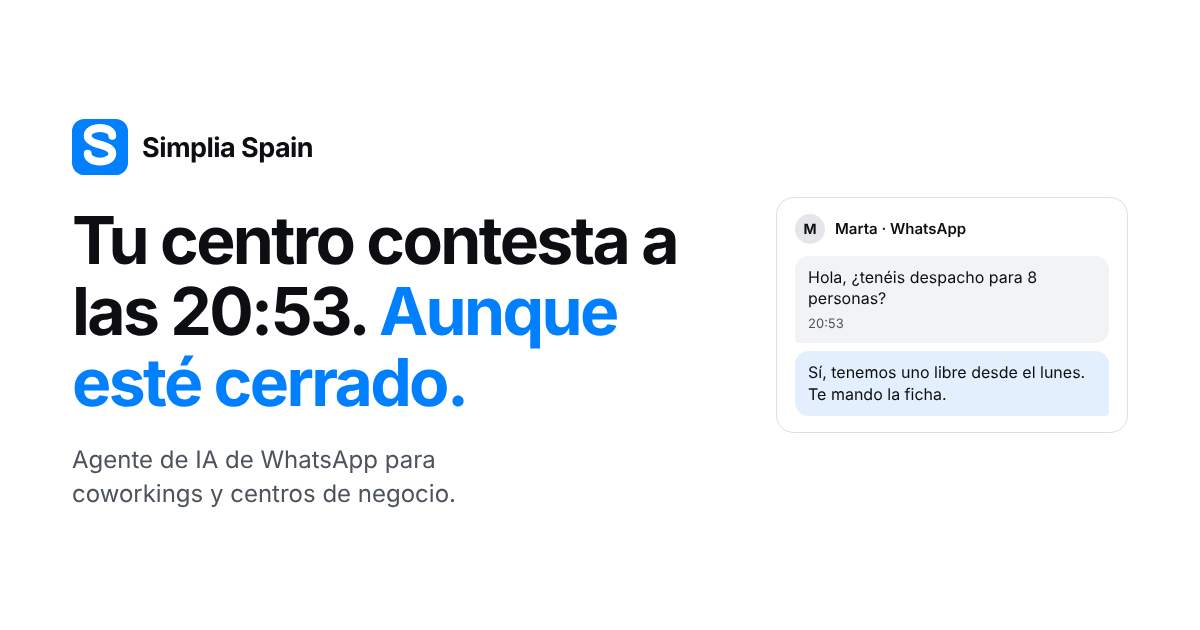
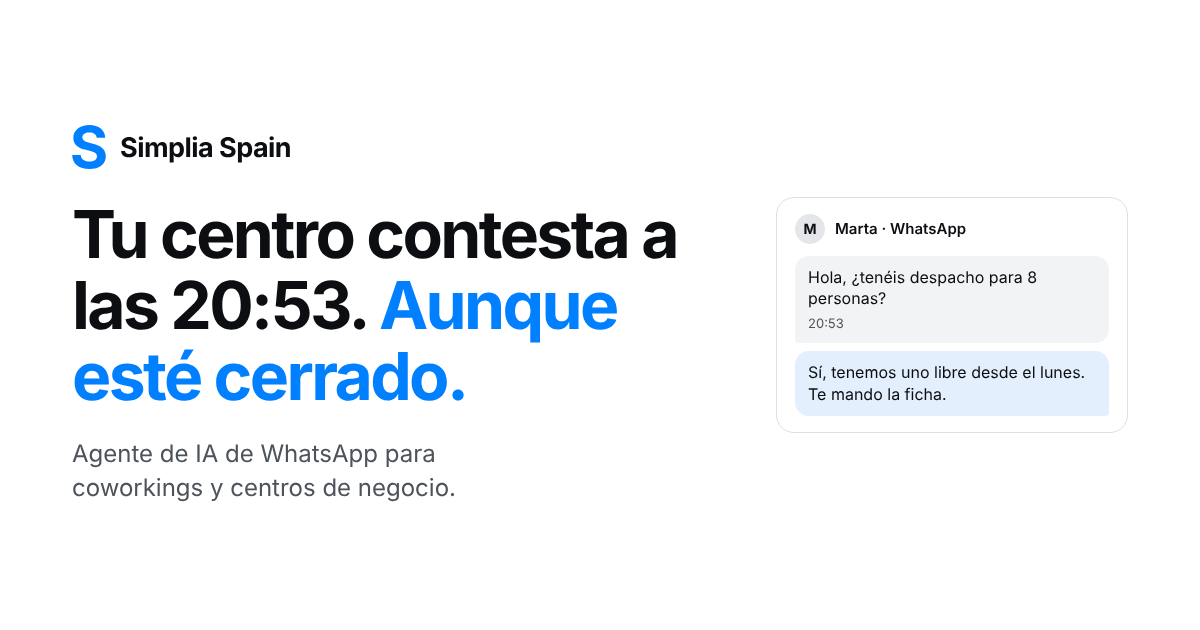
Poner la marca de verdad en la tarjeta que se comparte
Al pegar un enlace de la web en WhatsApp seguía saliendo la marca
antigua: un azulejo azul con una S dibujada a mano con un trazo
redondeado. El icono de pestaña se cambió hace dos entregas por la S real
-la de «Spain», sacada de Inter Bold, el peso en que está escrito el
logotipo- y la tarjeta se quedó atrás, porque es una imagen y no se
actualiza sola.

Ahora lleva esa misma S, recortada a su propia mancha de tinta para que
case de tamaño con el logotipo que tiene al lado. Va suelta y sin
azulejo: la tarjeta ya es blanca, y un azulejo blanco sobre blanco no se
vería.

La tarjeta pasa a vivir en el repositorio, en scripts/og/, con su README.
Estaba solo en el contenedor donde se hizo, que es exactamente por lo que
la marca antigua sobrevivió a su propio cambio: nadie podía regenerarla
sin volver a escribirla.

Siguen siendo 1200 x 630, que es lo que dicen og:image:width y height en
index.html.

Claude-Session: https://claude.ai/code/session_018wBeAekrWct3bfUgnCTmgZ

Changed region(s): [[0.0617, 0.3317, 0.555, 0.6635], [0.0617, 0.6937, 0.37, 0.8143], [0.0617, 0.181, 0.2775, 0.3016]]

diff --git a/scripts/og/tarjeta.html b/scripts/og/tarjeta.html
@@ -1,0 +1,97 @@
+<!doctype html>
+<html lang="es">
+<head>
+<meta charset="utf-8">
+<style>
+  :root {
+    --ink: #0C0E12;
+    --brand: #0080FF;
+    --muted: #4D535B;
+    --line: #DFE0DC;
+    --soft: #F0F1EE;
+  }
+  * { margin: 0; padding: 0; box-sizing: border-box; }
+  html, body { width: 1200px; height: 630px; }
+  body {
+    font-family: 'Inter', system-ui, sans-serif;
+    background: #fff;
+    color: var(--ink);
+    display: flex;
+    align-items: center;
+    gap: 56px;
+    padding: 0 72px;
+    -webkit-font-smoothing: antialiased;
+  }
+  .left { flex: 1 1 auto; min-width: 0; }
+  .mark { display: flex; align-items: center; gap: 14px; margin-bottom: 30px; }
+  .mark svg { width: 34px; height: 44px; display: block; }
+  .mark span { font-size: 27px; font-weight: 700; letter-spacing: -0.02em; }
+
+  h1 {
+    font-size: 66px;
+    font-weight: 700;
+    line-height: 1.07;
+    letter-spacing: -0.04em;
+    max-width: 14ch;
+    margin-bottom: 26px;
+  }
+  h1 em { font-style: normal; color: var(--brand); }
+
+  p { font-size: 24px; line-height: 1.4; color: var(--muted); max-width: 26ch; }
+
+  /* The message that is the whole argument, drawn the way the site draws it. */
+  .bubble {
+    flex: none;
+    width: 352px;
+    border: 1px solid var(--line);
+    border-radius: 18px;
+    padding: 16px 18px;
+    background: #fff;
+  }
+  .who { display: flex; align-items: center; gap: 10px; margin-bottom: 12px; }
+  .avatar {
+    width: 30px; height: 30px; border-radius: 50%;
+    background: #E4E6E9; color: var(--ink);
+    font-size: 14px; font-weight: 700;
+    display: flex; align-items: center; justify-content: center;
+  }
+  .who b { font-size: 15px; font-weight: 600; }
+  .msg {
+    background: #F2F3F5;
+    border-radius: 14px 14px 14px 4px;
+    padding: 11px 13px;
+    font-size: 16px;
+    line-height: 1.35;
+  }
+  .time { display: block; margin-top: 5px; font-size: 13px; color: var(--muted); }
+  .reply {
+    margin-top: 8px;
+    background: #E3EFFC;
+    border-radius: 14px 14px 4px 14px;
+    padding: 11px 13px;
+    font-size: 16px;
+    line-height: 1.35;
+  }
+</style>
+</head>
+<body>
+  <div class="left">
+  <div class="mark">
+    <svg xmlns="http://www.w3.org/2000/svg" viewBox="27.8 21 44.4 58" aria-hidden="true">
+      <path d="M50.39751958224544 79.0C64.10248041775458 79.0 72.16644908616188 72.37467362924282 72.16644908616188 62.11488250652741C72.16644908616188 52.65013054830287 64.82180156657964 47.8041775456919 55.31919060052219 45.60835509138381L50.208224543080945 44.35900783289817C45.437989556135776 43.22323759791123 41.197780678851174 41.44386422976501 41.197780678851174 37.24151436031332C41.197780678851174 33.4556135770235 44.52937336814622 30.72976501305483 50.43537859007833 30.72976501305483C56.22780678851175 30.72976501305483 59.824412532637076 33.34203655352481 60.24086161879895 37.847258485639685H71.40926892950392C71.21997389033942 27.928198433420363 63.04242819843342 21.0 50.54895561357702 21.0C38.282637075718014 21.0 29.34791122715405 27.81462140992167 29.34791122715405 37.99869451697128C29.34791122715405 46.21409921671018 35.06462140992167 51.02219321148824 44.60509138381201 53.331592689295036L50.81396866840731 54.88381201044386C56.947127937336816 56.39817232375979 60.54373368146214 58.177545691906005 60.54373368146214 62.039164490861616C60.54373368146214 66.3172323759791 56.45496083550914 69.23237597911226 50.28394255874674 69.23237597911226C44.03720626631854 69.23237597911226 39.456266318537864 66.3929503916449 39.07767624020888 60.67624020887728H27.833550913838124C28.174281984334208 72.677545691906 36.84399477806789 79.0 50.39751958224544 79.0Z" fill="#0080FF"/>
+    </svg>
+    <span>Simplia Spain</span>
+  </div>
+
+  <h1>Tu centro contesta a las&nbsp;20:53. <em>Aunque esté cerrado.</em></h1>
+
+  <p>Agente de IA de WhatsApp para coworkings y centros de negocio.</p>
+  </div>
+
+  <div class="bubble">
+      <div class="who"><span class="avatar">M</span><b>Marta · WhatsApp</b></div>
+      <div class="msg">Hola, ¿tenéis despacho para 8 personas?<span class="time">20:53</span></div>
+      <div class="reply">Sí, tenemos uno libre desde el lunes. Te mando la ficha.</div>
+  </div>
+</body>
+</html>

diff --git a/scripts/og/README.md b/scripts/og/README.md
@@ -1,0 +1,29 @@
+# La tarjeta que se ve al compartir la web
+
+`public/og-image.png` es lo que enseñan WhatsApp, LinkedIn, Slack o X cuando
+alguien pega un enlace de simpliaspain.com. Es una imagen, no la página, así
+que no se actualiza sola: **si cambia la marca o el titular, hay que volver a
+generarla aquí**. Es justo lo que pasó con la marca antigua, que siguió
+viéndose en WhatsApp mucho después de haber cambiado el icono de pestaña.
+
+`tarjeta.html` es la tarjeta, escrita con los mismos tokens que la web: Inter,
+blanco, el azul de marca y la burbuja de la conversación de ejemplo. La marca
+es **la misma S** que `public/favicon.svg`: la de «Spain» sacada de Inter
+Bold, recortada a su propia mancha de tinta. Aquí va suelta y sin azulejo,
+porque la tarjeta ya es blanca.
+
+## Volver a generarla
+
+    node scripts/og/render.cjs scripts/og public/og-image.png
+
+Son 1200 × 630, que es lo que dicen `og:image:width` y `og:image:height` en
+`index.html`. Si cambia el tamaño, hay que cambiar también esas dos etiquetas.
+
+Hace falta un Chromium con Playwright; `render.cjs` lleva la ruta del que trae
+el contenedor.
+
+## Si se cambia el titular
+
+El de la tarjeta y el de la portada dicen lo mismo a propósito («Tu centro
+contesta a las 20:53»), y las dos horas salen del vídeo. Cambiar una sin la
+otra deja a quien llega desde WhatsApp mirando dos promesas distintas.
